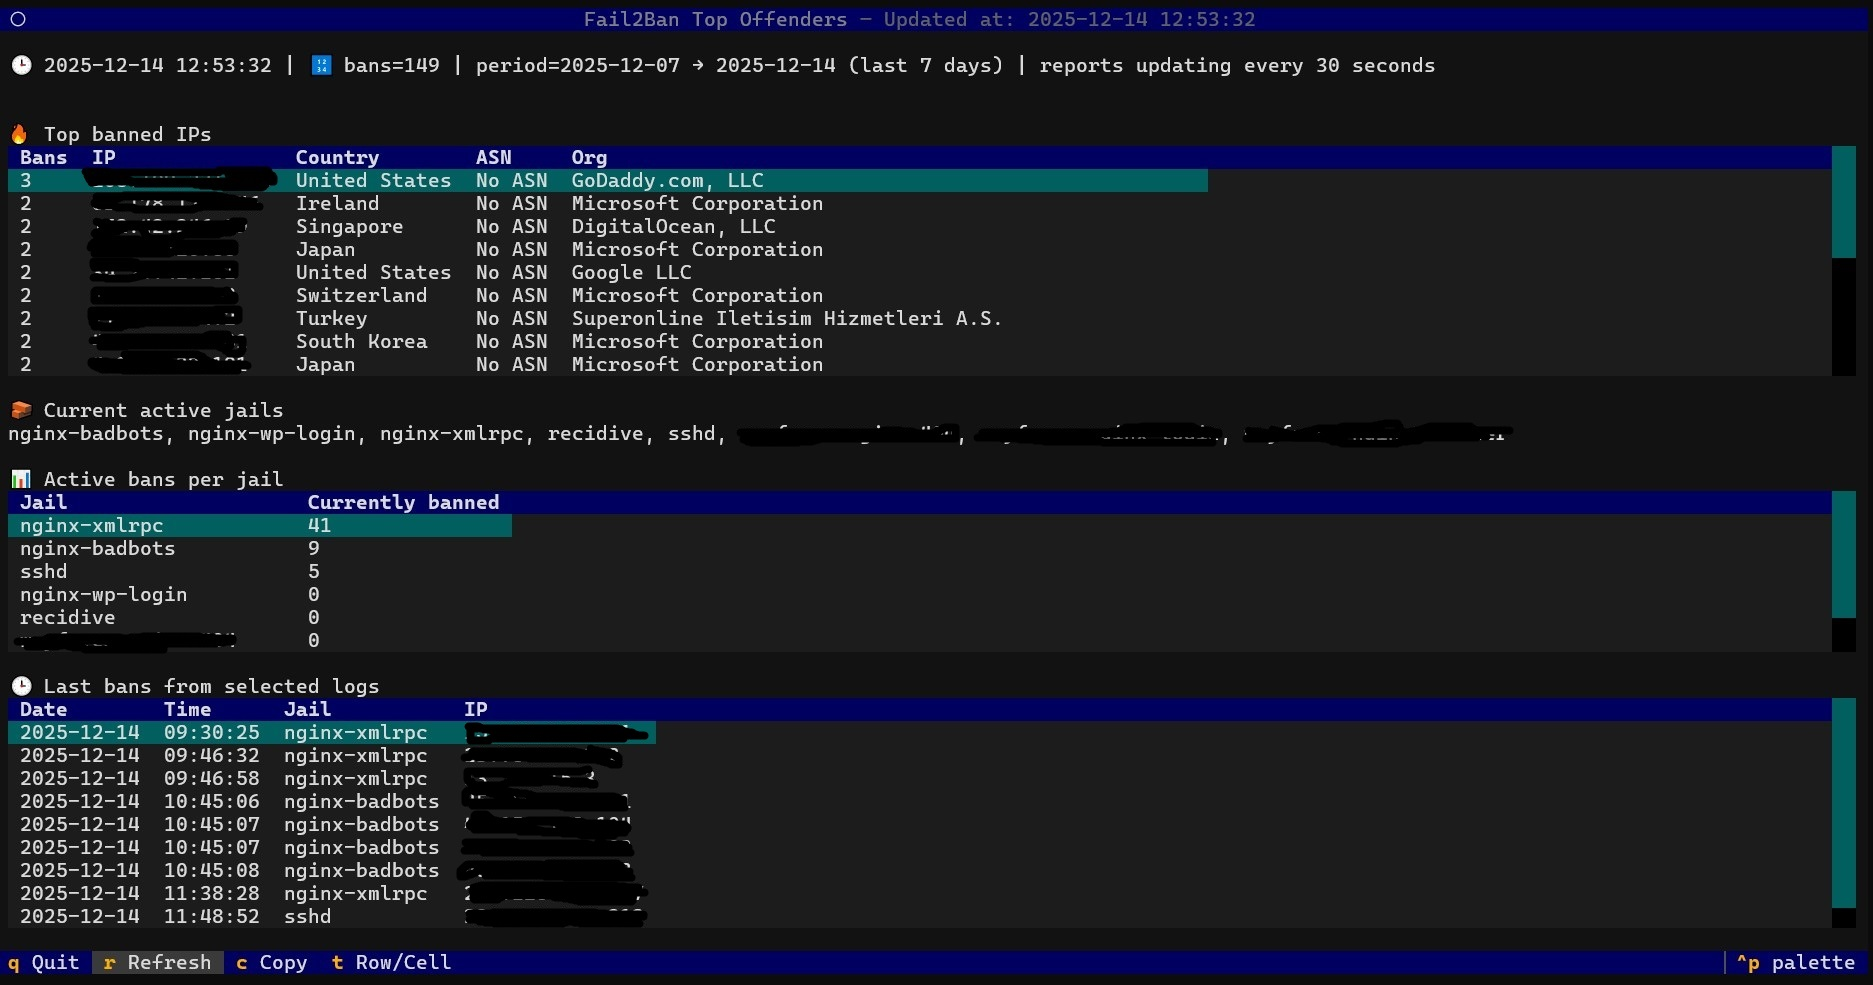
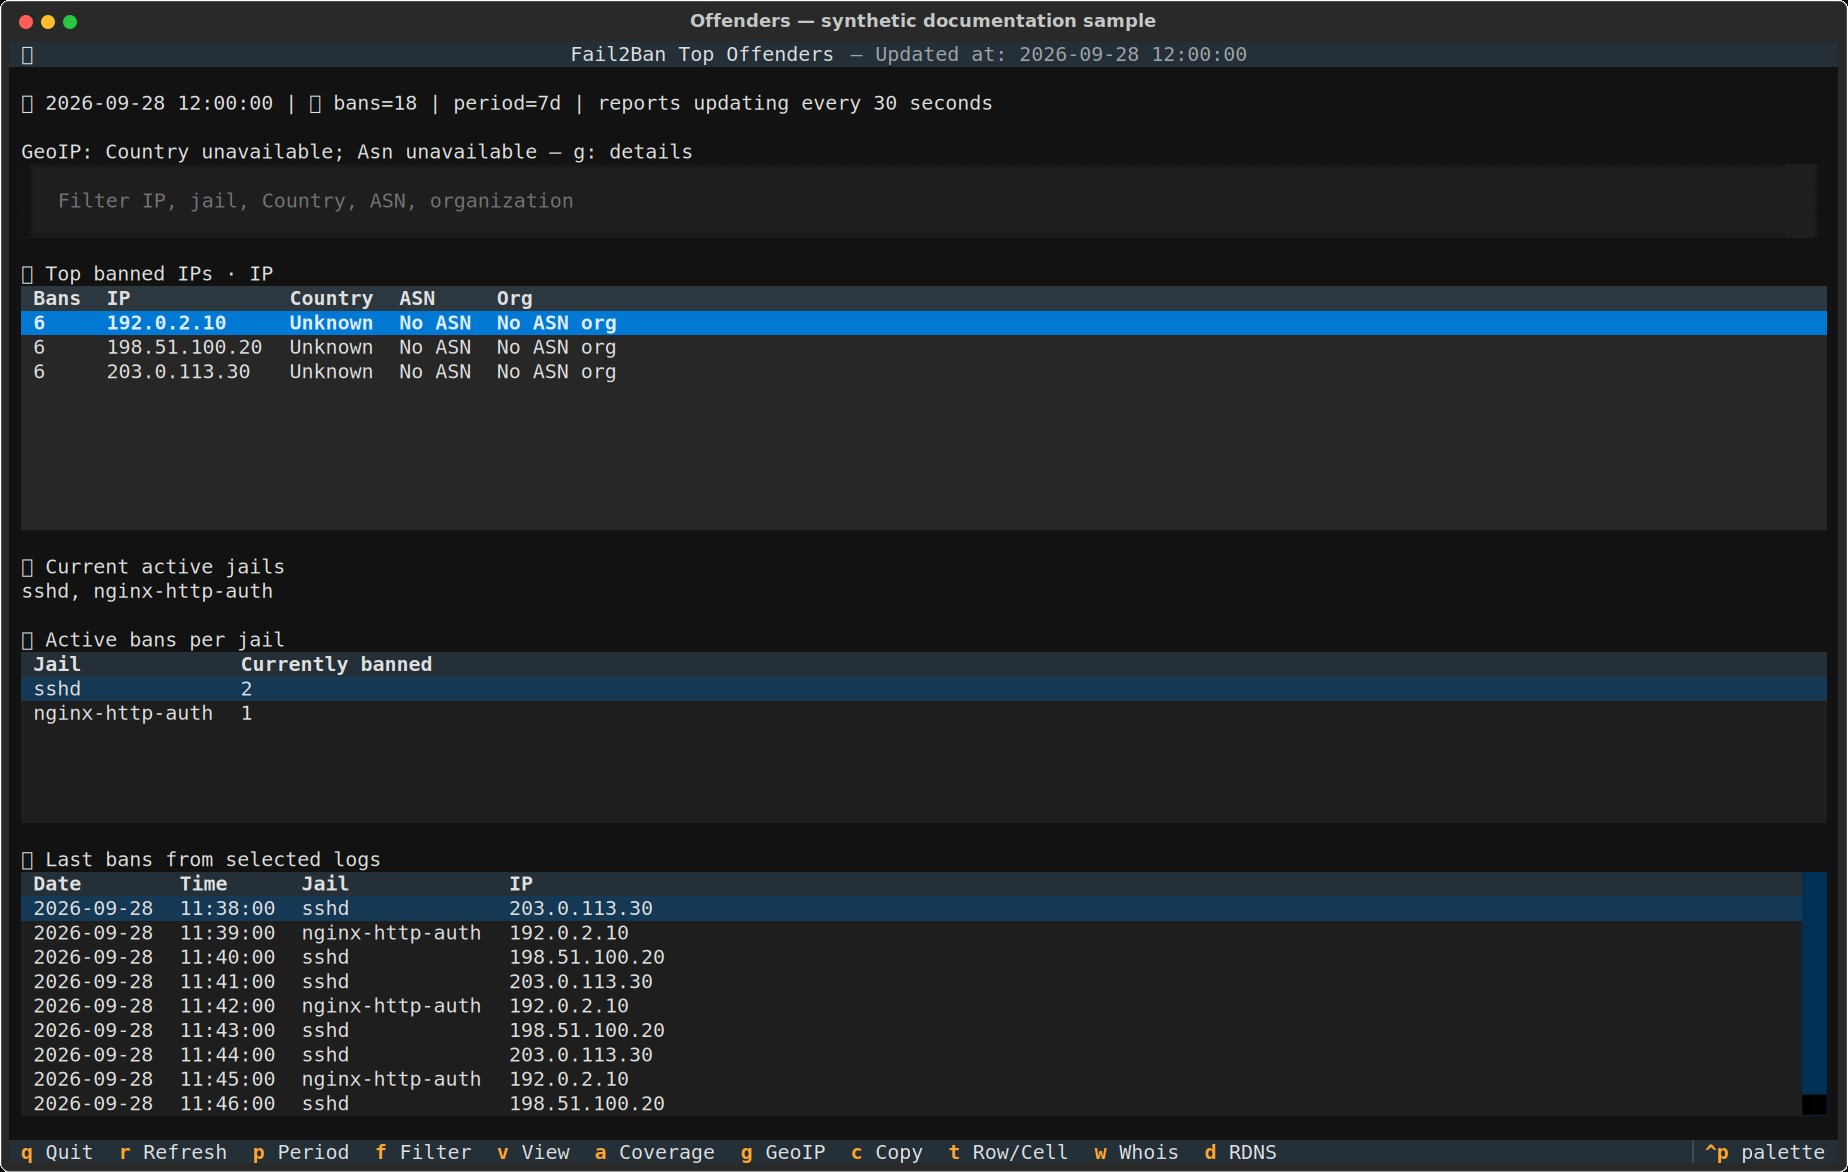
docs: correct Phase A qualification drift and dashboard screenshot (#74)

diff --git a/docs/troubleshooting.md b/docs/troubleshooting.md
@@ -9,7 +9,7 @@ title: Troubleshooting
 | Symptom | What to check |
 | --- | --- |
 | Fail2Ban command denied/unavailable, timeout, or parse failure | Read the degraded detail; verify Fail2Ban availability, actual client path, and narrowly scoped noninteractive sudo permission. Last-good data is retained; it is not current success. |
-| Missing or unreadable report history | Verify configured file paths and current-user read access, including rotations. Missing files are skipped, so no history does not prove there were no bans; unreadable files can fail collection. |
+| Missing or unreadable report history | Verify configured file paths and current-user read access, including rotations. At least the current log or its plain `.1` rotation must exist; gzip history alone is insufficient. Disappearing rotations are skipped; unreadable files can fail collection. Empty history does not prove there were no bans. |
 | GeoIP unavailable or reader failure | Inspect diagnostics/status for independent Country/ASN sources and reader errors; check the same user/XDG environment and file readability. Unmapped is a different state. |
 | GeoIP stale | Local age exceeds 62 days; readable data remains usable. Choose an explicit update if desired. |
 | GeoIP update failure | Read the latest outcome; usable active data is preserved. Check the reported network/storage/validation error before choosing another explicit attempt. |

diff --git a/docs/installation.md b/docs/installation.md
@@ -111,5 +111,5 @@ offenders
 `pipx install .` provides local application isolation. With the source environment
 active, `python offenders.py` or `./offenders.py` also launches the dashboard.
 Keep the packaged modules together: copying only the old single script is not a
-current installation method. See [development tests](https://github.com/stef-k/Offenders/blob/master/DEVELOPMENT.md#development-tests) for
+current installation method. See [development tests](https://github.com/stef-k/Offenders/blob/master/DEVELOPMENT.md#tests-and-evidence) for
 contributor guidance and [release preparation](https://github.com/stef-k/Offenders/blob/master/RELEASING.md) for local wheel checks.

diff --git a/README.md b/README.md
@@ -6,6 +6,8 @@ run on-demand WHOIS/RDNS lookups or a manual Coverage analysis for review.
 
 ![Offenders TUI screenshot](https://raw.githubusercontent.com/stef-k/Offenders/master/offenders-screenshot.jpg)
 
+Current dashboard with synthetic documentation addresses and no GeoIP databases.
+
 - Explore rolling history periods, live jail status, and IP/ASN/Country summaries.
 - Filter loaded results and investigate individual jails and IPs.
 - Review Coverage evidence and explicitly validate copy-only filter candidates.
